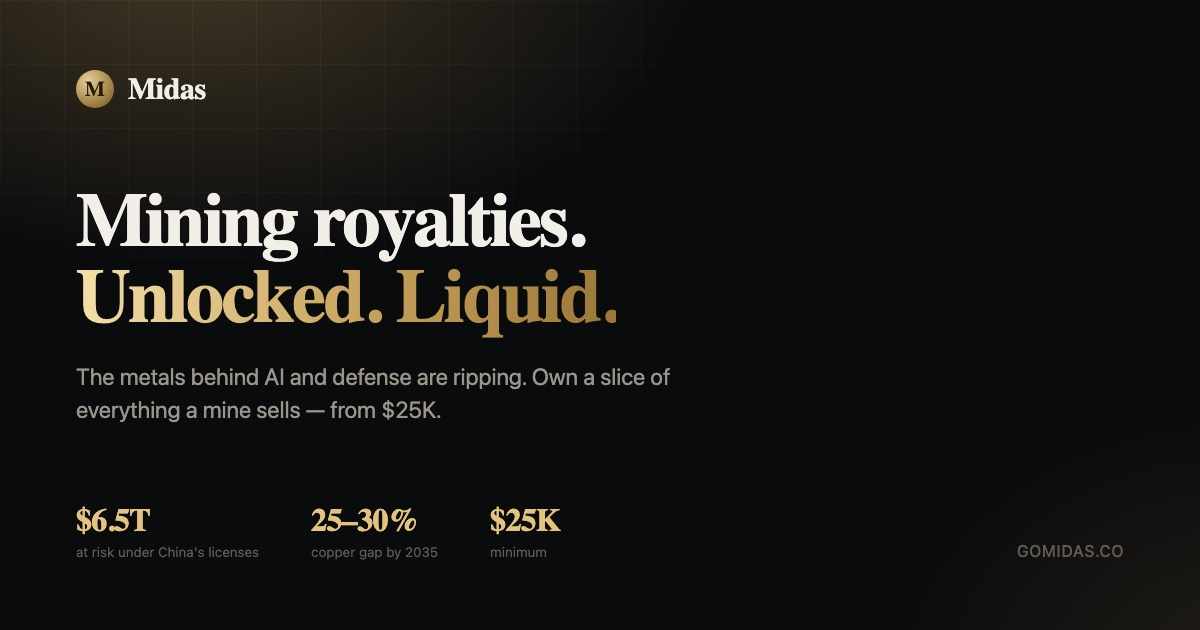
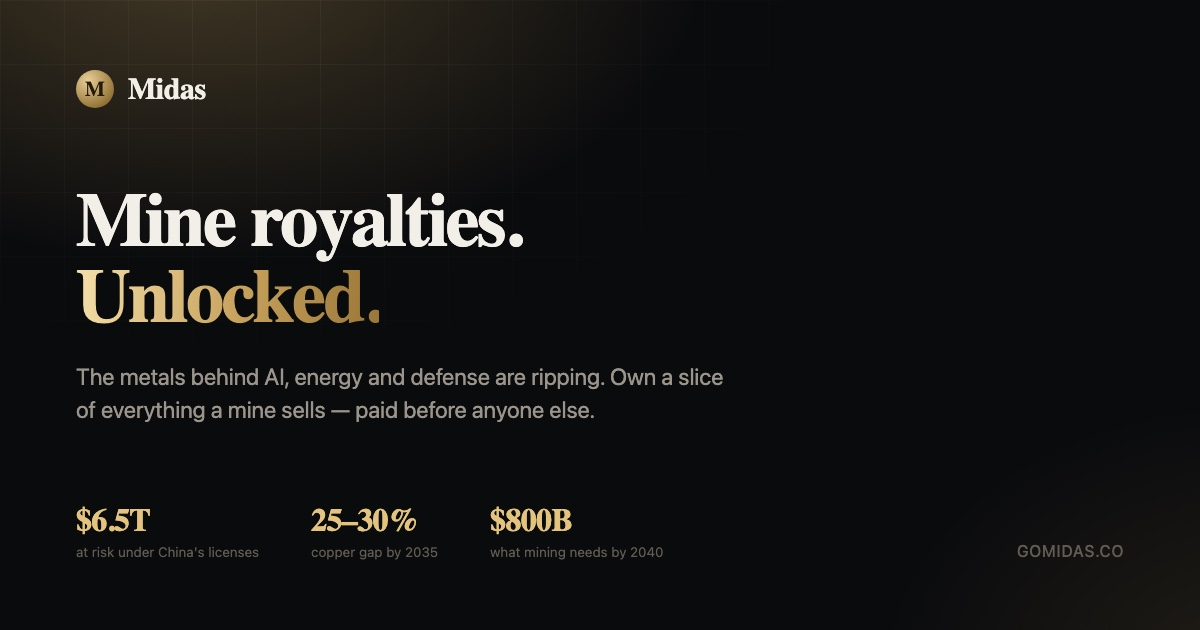
Launch copy pass: 'Mine royalties. Unlocked.' — no minimums (fractions sized to you), no US-centric framing (global receipts: Washington/Beijing/Gulf), deal card Term row, og updated

diff --git a/index.html b/index.html
@@ -3,9 +3,9 @@
 <head>
 <meta charset="utf-8" />
 <meta name="viewport" content="width=device-width, initial-scale=1" />
-<meta name="description" content="Midas is building the first market for mining royalties — a claim on a mine's revenue, registered against the licence, underwritten one asset at a time and opened to qualified investors from $25,000." />
-<meta property="og:title" content="Mining royalties. Unlocked. Liquid." />
-<meta property="og:description" content="The metals behind AI and defense are the next wave. Midas sells fractions of mine royalties — a cut of everything a mine sells, paid before anyone else. From $25,000." />
+<meta name="description" content="Midas is building the first market for mining royalties — a claim on a mine's revenue, registered against the licence, underwritten one asset at a time and opened to qualified investors in fractions." />
+<meta property="og:title" content="Mine royalties. Unlocked." />
+<meta property="og:description" content="The metals behind AI, energy and defense are the next wave. Midas sells fractions of mine royalties — a cut of everything a mine sells, paid before anyone else." />
 <meta property="og:image" content="https://gomidas.co/og-image.jpg" />
 <meta property="og:image:width" content="1200" />
 <meta property="og:image:height" content="630" />
@@ -598,9 +598,9 @@
   <div class="hgrid" aria-hidden="true"></div>
   <div class="heroA">
     <div class="ha-copy">
-      <span class="pill rv in"><i></i>The Pentagon just bought a mine</span>
-      <h1>Mining royalties. <span class="g">Unlocked. Liquid.</span></h1>
-      <p class="hero-sub">The metals behind AI and defense are ripping — and the Pentagon is buying in. Midas cuts you in: a slice of everything a mine sells, paid before anyone else. From $25K.</p>
+      <span class="pill rv in"><i></i>5 mines under review · $75M</span>
+      <h1>Mine royalties. <span class="g">Unlocked.</span></h1>
+      <p class="hero-sub">The metals behind AI, energy and defense are ripping. Midas cuts you in: a slice of everything a mine sells, paid before anyone else — in fractions sized to you.</p>
       <div class="hero-cta" style="justify-content:flex-start;margin-top:30px">
         <a href="#access" class="btn btn-gold">Request access</a>
       </div>
@@ -613,7 +613,7 @@
       <div class="dc-rows">
         <div class="dc-r"><span>Royalty</span><b>$0.30 per tonne sold</b></div>
         <div class="dc-r"><span>Raise target</span><b>$20M</b></div>
-        <div class="dc-r"><span>Minimum</span><b class="gold-t">$25,000</b></div>
+        <div class="dc-r"><span>Term</span><b class="gold-t">Life of mine</b></div>
       </div>
       <div class="dc-spot"><span>Iron ore spot</span><b class="odo num" data-odo="104.80">$104.80</b><em class="chg d" data-chg>−0.42%</em></div>
       <div class="dc-foot">Full technical &amp; legal file on access · Not an offer</div>
@@ -623,7 +623,7 @@
     <div class="sb"><b class="num">$100B+</b><span>asset class, held privately</span></div>
     <div class="sb"><b class="num">0</b><span>royalties ever traded openly</span></div>
     <div class="sb"><b class="num">$75M</b><span>in deals under review</span></div>
-    <div class="sb"><b class="num">$25K</b><span>minimum</span></div>
+    <div class="sb"><b class="num">24/7</b><span>transfers between holders</span></div>
   </div>
 </section>
 
@@ -632,7 +632,7 @@
   <div class="wrap">
     <span class="eyebrow rv">The receipts</span>
     <h2 class="rv">This is already happening.</h2>
-    <p class="lede rv">In July 2025 the Pentagon bought 15% of America's only rare-earth mine and guaranteed its prices for ten years — at roughly twice the market. China answered with export licenses on the metals the world runs on. Prices went vertical. And the mines still can't raise money fast enough.</p>
+    <p class="lede rv">Washington is taking stakes in mines. Beijing put export licenses on the metals the world runs on. Gulf sovereign funds are going upstream. Prices went vertical — and the mines still can't raise money fast enough.</p>
     <div class="stats rv">
       <div class="stat"><div class="n num">$6.5T</div><div class="k">of yearly production held at risk by China's rare-earth export licenses (IEA, 2026)</div></div>
       <div class="stat"><div class="n num">25–30%</div><div class="k">projected copper supply gap by 2035, as AI and defense demand collide (IEA)</div></div>
@@ -694,7 +694,7 @@
     <div class="big3 rv">
       <div class="b3"><span class="n3">1</span><b>A mine gives up a share</b><p>A fixed cut of everything it sells, for the life of the mine.</p></div>
       <div class="b3"><span class="n3">2</span><b>The claim is registered</b><p>Against the mining licence itself. It survives a sale — it outranks even the debt.</p></div>
-      <div class="b3"><span class="n3">3</span><b>You own a fraction</b><p>From $25,000, as a token that trades between verified holders, 24/7.</p></div>
+      <div class="b3"><span class="n3">3</span><b>You own a fraction</b><p>Any size, as a token that trades between verified holders, 24/7.</p></div>
     </div>
   </div>
 </section>
@@ -792,7 +792,7 @@
     <div class="doors rv">
       <a class="door" href="#/investors">
         <b>Investors</b>
-        <p>Own mining cash flow without owning a mining company. From $25,000.</p>
+        <p>Own mining cash flow without owning a mining company. In fractions sized to you.</p>
         <span class="go">For investors →</span>
       </a>
       <a class="door gold" href="#/operators">
@@ -874,7 +874,7 @@
   <div class="wrap">
     <span class="eyebrow rv">Investors</span>
     <h2 class="rv">Own mining cash flow. Not a mining company.</h2>
-    <p class="lede rv">Buy a royalty company's shares and you get its whole book and its management's next decision. Here you back one asset, with one file, from $25,000.</p>
+    <p class="lede rv">Buy a royalty company's shares and you get its whole book and its management's next decision. Here you back one asset, with one file, at your size.</p>
   </div>
 </section>
 <!-- ============ ANATOMY ============ -->
@@ -905,7 +905,7 @@
           <text x="2" y="12" font-family="Switzer, sans-serif" font-size="7.5" fill="#615C52" letter-spacing="1.5">Royalty cash flow · life of mine</text>
         </svg>
         <div class="cert-foot">
-          <div class="cert-min">Fractional from $25,000<span>Registered against the mining licence</span></div>
+          <div class="cert-min">Fractional ownership<span>Registered against the mining licence</span></div>
           <div class="seal"><span>Midas<br/>SPV<br/>segregated</span></div>
         </div>
       </div>
@@ -992,7 +992,7 @@
       <div class="s5"><span class="ix">01</span><b>Request access</b><p>Two minutes. A person reads it.</p></div>
       <div class="s5"><span class="ix">02</span><b>Verify</b><p>Identity, suitability, source of funds. Once.</p></div>
       <div class="s5"><span class="ix">03</span><b>Read the file</b><p>Reserve, licence, legal opinion — the full record.</p></div>
-      <div class="s5"><span class="ix">04</span><b>Subscribe</b><p>From $25,000, into one named royalty.</p></div>
+      <div class="s5"><span class="ix">04</span><b>Subscribe</b><p>At your size, into one named royalty.</p></div>
       <div class="s5"><span class="ix">05</span><b>Collect</b><p>Distributions as the mine sells. For the life of the mine.</p></div>
     </div>
   </div>
@@ -1089,7 +1089,7 @@
       <div class="doc"><span class="ref">TR-01</span><span class="no">01 · TECHNICAL</span><h3>The rock is reviewed</h3><p>Geologists and mining engineers on the reserve, the grade and the production schedule. Most assets stop here.</p></div>
       <div class="doc"><span class="ref">LG-02</span><span class="no">02 · LEGAL</span><h3>The claim is registered</h3><p>Host-country counsel registers the royalty against the mining licence. If it can't be enforced locally, it doesn't proceed.</p></div>
       <div class="doc"><span class="ref">ST-03</span><span class="no">03 · STRUCTURE</span><h3>The vehicle is built</h3><p>One segregated vehicle per royalty. Custody, transfer controls and reporting set before a dollar moves.</p></div>
-      <div class="doc"><span class="ref">FR-04</span><span class="no">04 · FRACTIONS</span><h3>The instrument opens</h3><p>Divided from $25,000, offered to qualified investors with the full technical and legal file attached.</p></div>
+      <div class="doc"><span class="ref">FR-04</span><span class="no">04 · FRACTIONS</span><h3>The instrument opens</h3><p>Divided into fractions and offered to qualified investors with the full technical and legal file attached.</p></div>
     </div>
     <p class="rej rv"><b>The whole business is what we refuse.</b> No exploration ground. No unregistrable claims. No operator who won't open the drill data. The file publishes with every instrument, so you can disagree with us in public.</p>
   </div>
